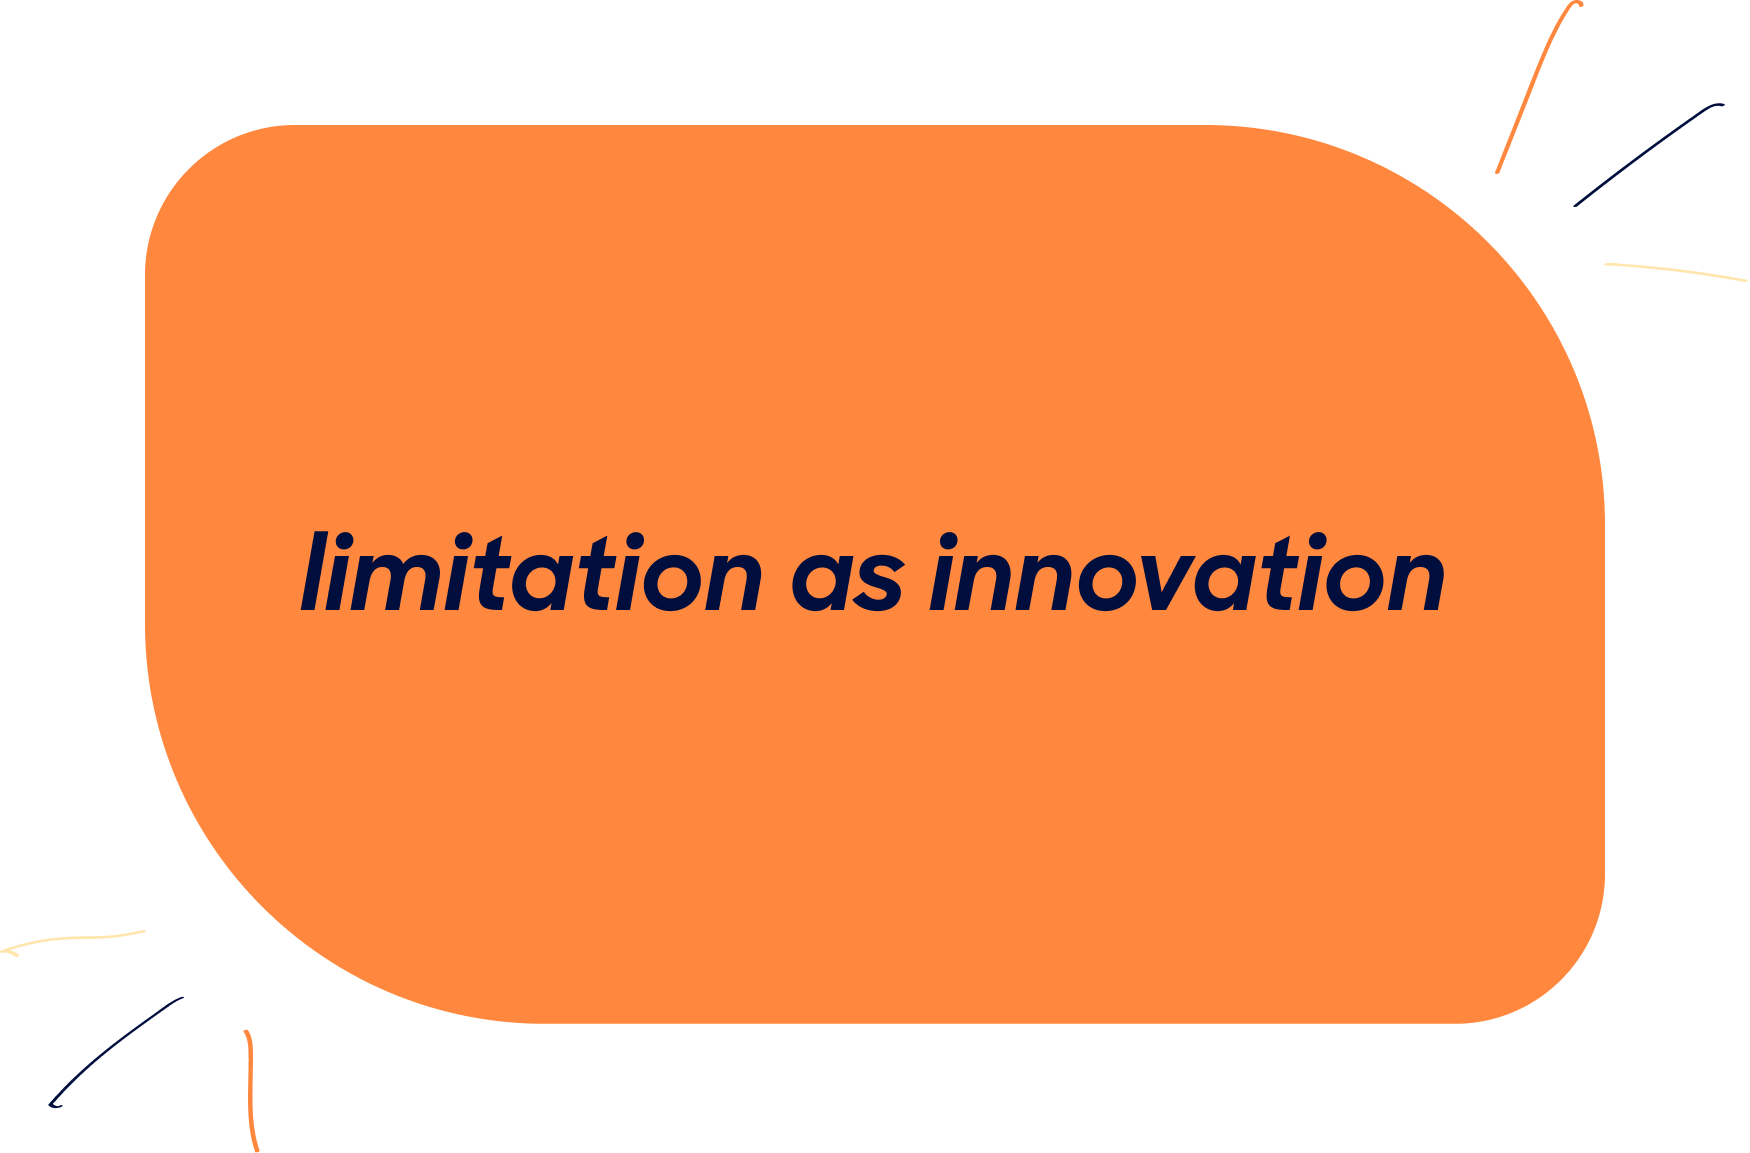
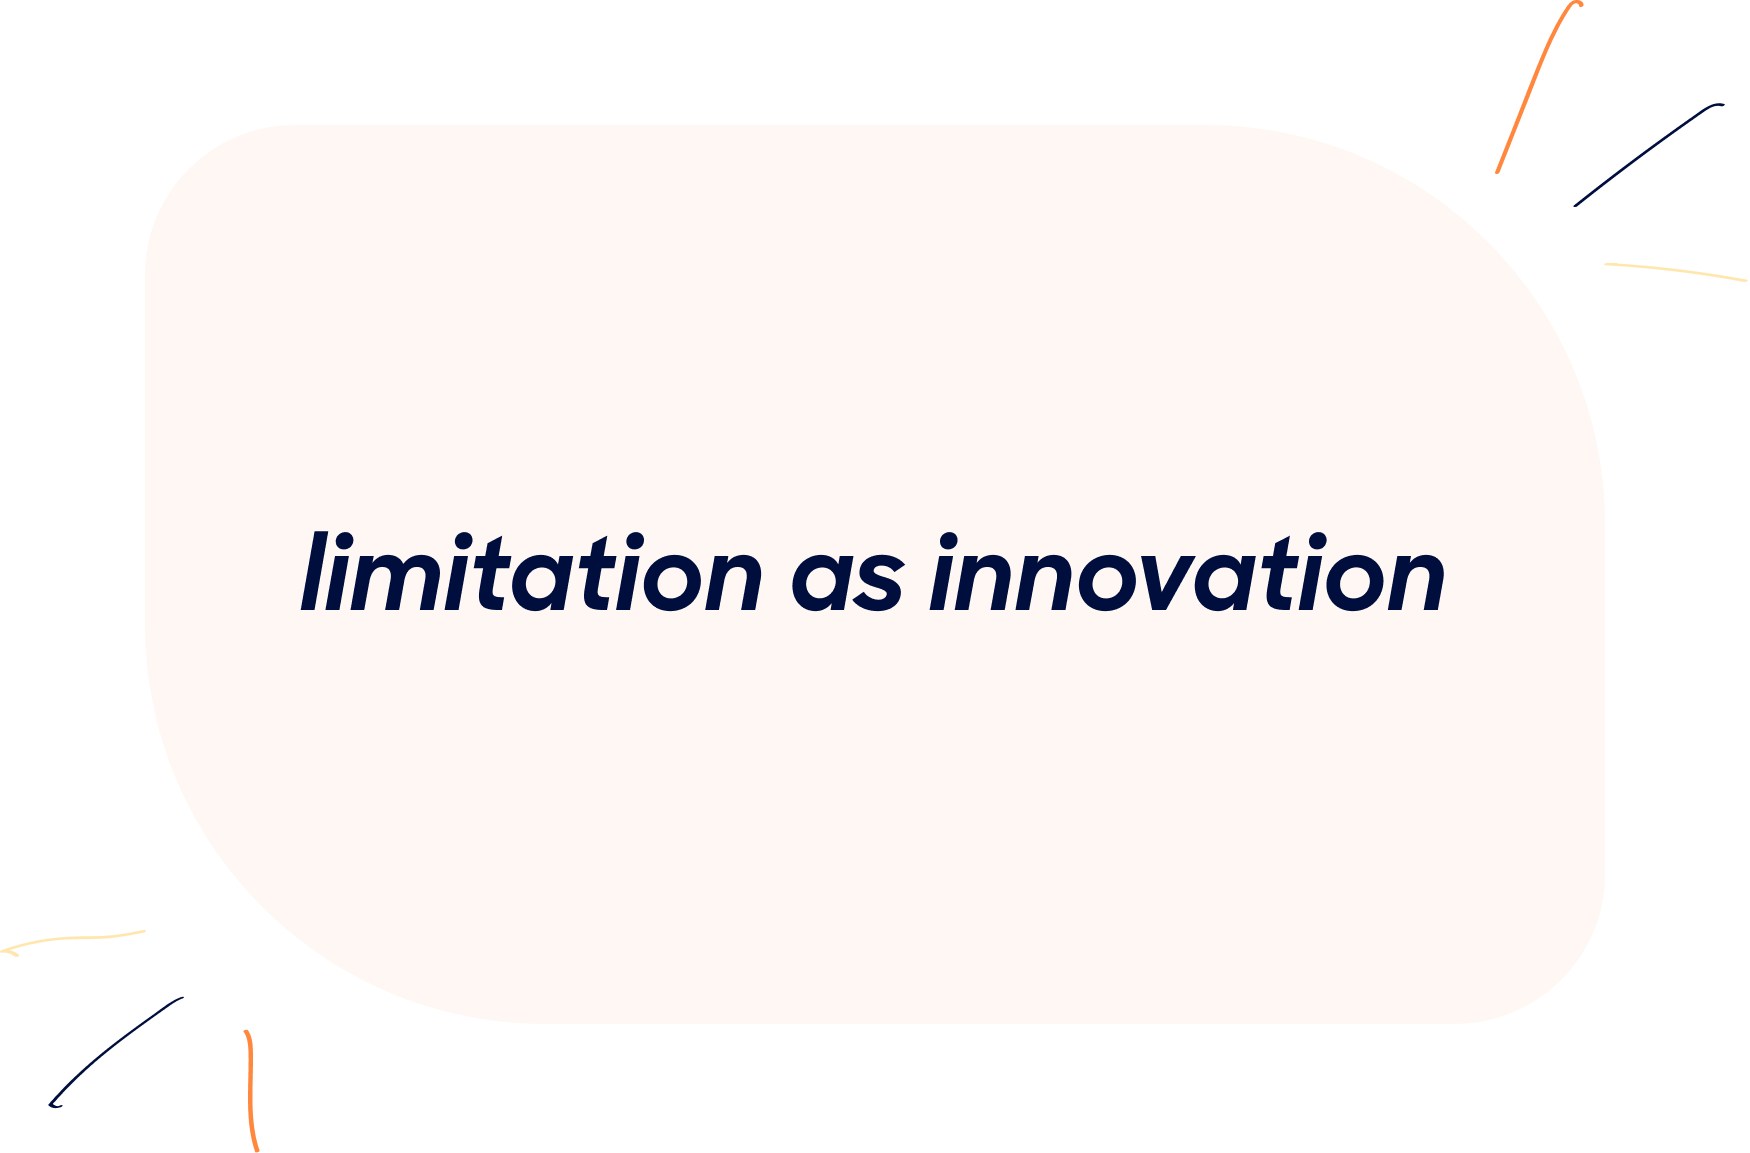
Add files via upload

diff --git a/accessibility-project.html b/accessibility-project.html
@@ -53,7 +53,7 @@
                 </div>
             </div>
         </section>
-        <section class="solution">
+        <section class="solution" style="background: #86B8FD;">
             <div>
                 <h3>
                     My research
@@ -77,7 +77,7 @@
             </div>
             <img src="img/interview-aantekeningen-slechtzienden.jpeg" alt="notes from when I interviewed visually impaired individuals" class="custom-img-2">
         </section>
-        <section class="solution">
+        <section class="solution" style="background: #86B8FD;">
             <div>
                 <h4>
                     visiting the MuZIEum in Nijmegen

diff --git a/styles/styles.css b/styles/styles.css
@@ -316,7 +316,7 @@ body.detail section.process > div:first-of-type > div > img, body.detail section
 }
 
 body.detail section.a11y{
-    background: #FFE6AC url(../img/achtergrond-a11y.png);
+    background: #FEF7F3 url(../img/achtergrond-a11y.png);
     background-repeat: no-repeat;
     background-size: cover;
 }
